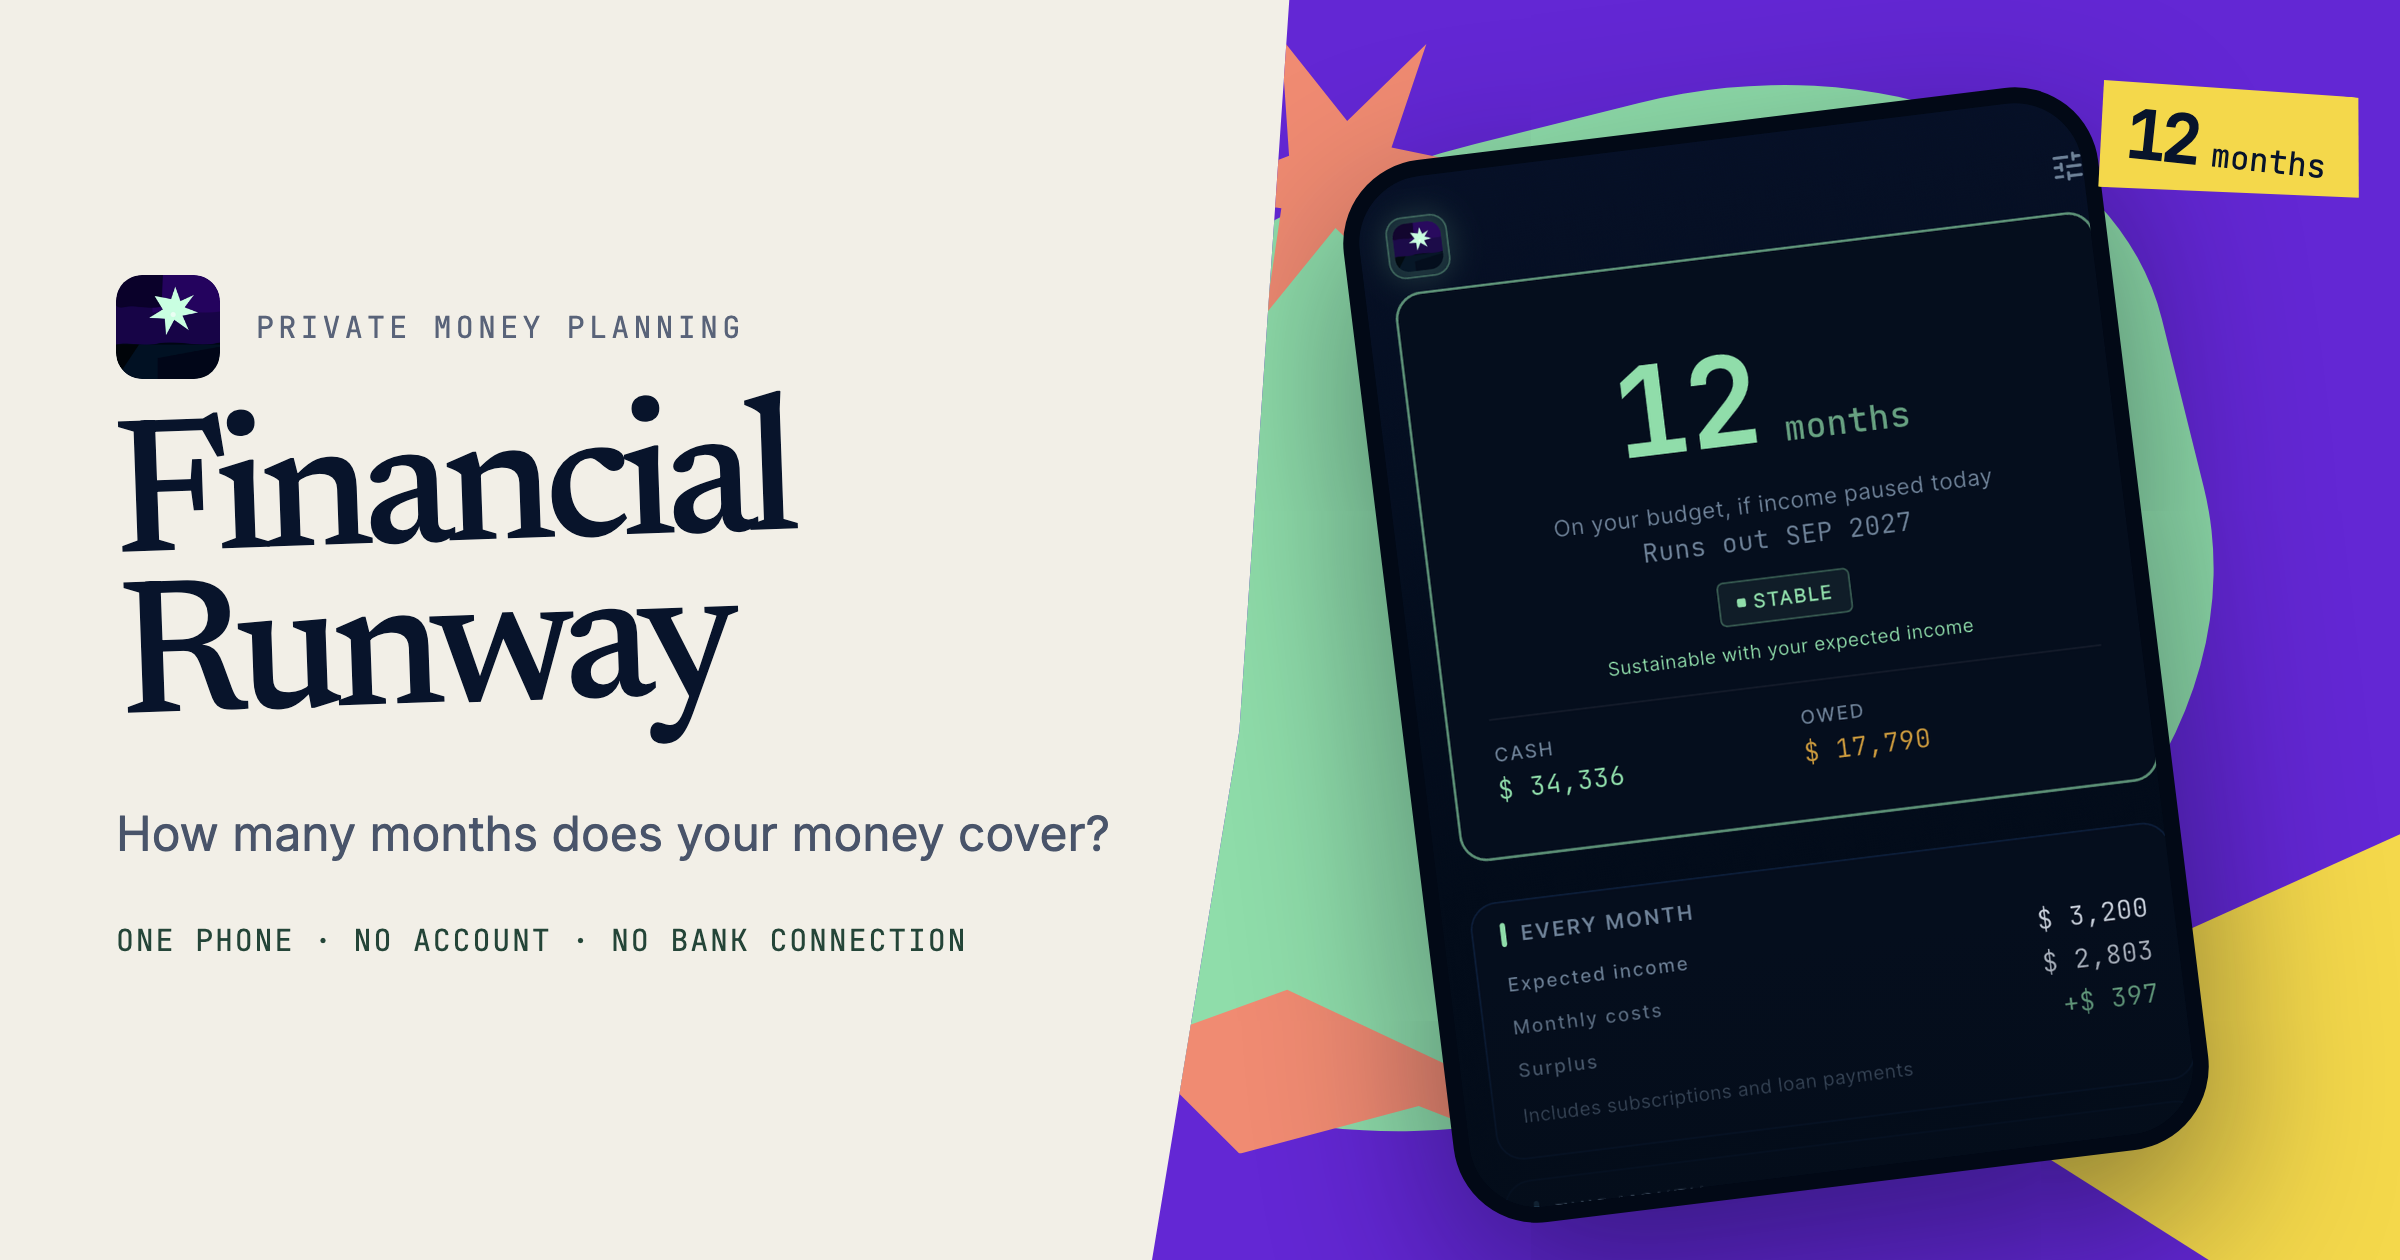
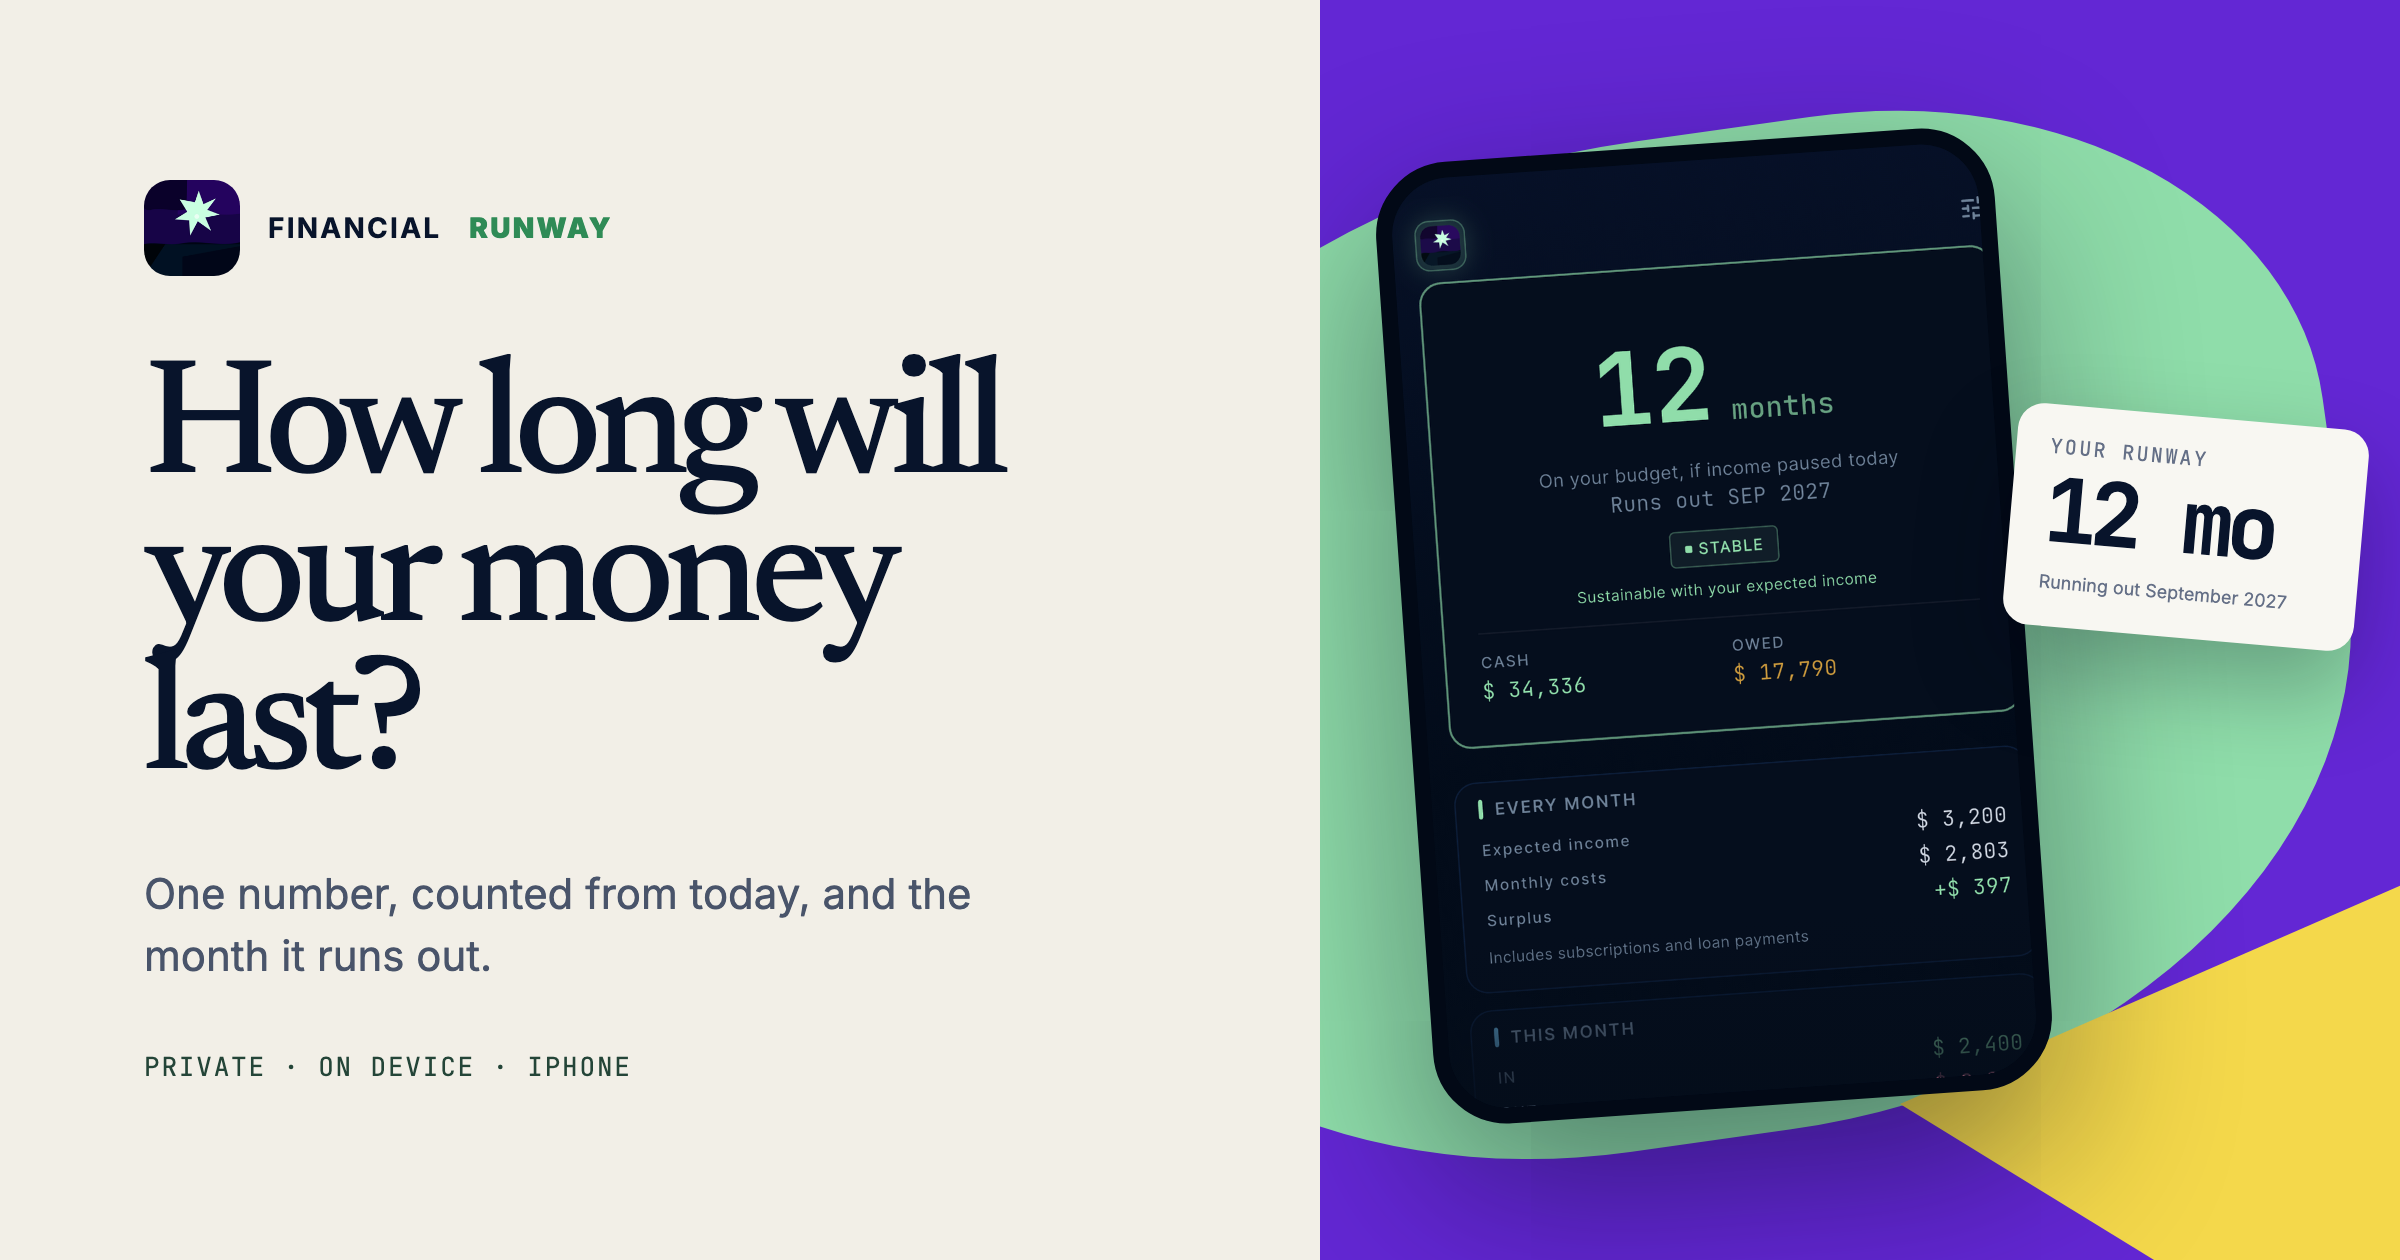
fix(site): take the newer card, and describe it accurately
The card gained a runway callout and its own wordmark. og-source/card.html
renders this one; re-running the documented command reproduces the committed
PNG byte for byte.

The README had lost the render command, which is the only thing that keeps the
image and the page from drifting apart. Restored.

og:image:alt described the old card, so a screen reader was told about an image
that no longer exists.

Claude-Session: https://claude.ai/code/session_01LzA2Gog4pmDHuvfaKeYrQX

diff --git a/site/assets/og-source/card.html b/site/assets/og-source/card.html
@@ -4,17 +4,17 @@
     <meta charset="utf-8" />
     <style>
       @font-face {
-        font-family: "Newsreader";
-        src: url("../fonts/newsreader-500.woff2") format("woff2");
+        font-family: Newsreader;
+        src: url("../fonts/newsreader-500.woff2");
         font-weight: 500;
       }
       @font-face {
-        font-family: "Inter";
-        src: url("../fonts/inter.woff2") format("woff2");
+        font-family: Inter;
+        src: url("../fonts/inter.woff2");
       }
       @font-face {
-        font-family: "JetBrains Mono";
-        src: url("../fonts/jetbrains-mono.woff2") format("woff2");
+        font-family: JetBrains;
+        src: url("../fonts/jetbrains-mono.woff2");
       }
       * {
         box-sizing: border-box;
@@ -27,201 +27,175 @@
       }
       body {
         overflow: hidden;
-        background: #f2efe7;
         color: #08142b;
-        font-family: "Inter", sans-serif;
+        background: #f2efe7;
+        font-family: Inter, sans-serif;
       }
       main {
         position: relative;
+        width: 100%;
         height: 100%;
-        display: grid;
-        grid-template-columns: 54% 46%;
-        align-items: center;
-        gap: 0;
       }
       .copy {
-        position: relative;
-        z-index: 3;
-        align-self: stretch;
+        position: absolute;
+        z-index: 5;
+        inset: 0 45% 0 0;
         display: flex;
         flex-direction: column;
         justify-content: center;
-        padding: 50px 58px;
-        background: transparent;
-      }
-      .field {
-        position: relative;
-        align-self: stretch;
-        overflow: hidden;
-        background: #6327d4;
-        clip-path: polygon(11% 0, 100% 0, 100% 100%, 0 100%, 7% 58%);
-        margin-left: -72px;
+        padding: 52px 72px;
       }
       .brand {
         display: flex;
         align-items: center;
-        gap: 18px;
-        margin-bottom: 24px;
-        color: #596379;
+        gap: 14px;
+        margin-bottom: 42px;
+        color: #08142b;
         font:
-          15px/1 "JetBrains Mono",
-          monospace;
-        letter-spacing: 0.14em;
+          700 14px/1 Inter,
+          sans-serif;
+        letter-spacing: 0.08em;
         text-transform: uppercase;
       }
+      .brand b {
+        color: #2f8b56;
+      }
       .brand img {
-        width: 52px;
-        height: 52px;
+        width: 48px;
+        height: 48px;
         border-radius: 13px;
       }
       h1 {
-        max-width: 590px;
+        max-width: 520px;
         margin: 0;
         font:
-          500 96px/0.84 "Newsreader",
+          500 82px/0.9 Newsreader,
           Georgia,
           serif;
-        letter-spacing: -0.055em;
-        transform: rotate(-2deg);
-        transform-origin: left center;
+        letter-spacing: -0.06em;
       }
       .question {
-        max-width: 560px;
-        margin: 25px 0 0;
+        max-width: 480px;
+        margin: 30px 0 0;
         color: #49546a;
-        font:
-          24px/1.45 "Inter",
-          sans-serif;
+        font-size: 21px;
+        line-height: 1.48;
       }
       .details {
-        margin-top: 28px;
+        margin: 33px 0 0;
         color: #244538;
         font:
-          15px/1 "JetBrains Mono",
+          13px/1 JetBrains,
           monospace;
-        letter-spacing: 0.06em;
+        letter-spacing: 0.07em;
         text-transform: uppercase;
+      }
+      .field {
+        position: absolute;
+        inset: 0 0 0 55%;
+        overflow: hidden;
+        background: #6327d4;
       }
       .blob {
         position: absolute;
-        width: 650px;
-        height: 480px;
-        left: -118px;
-        top: 68px;
+        left: -155px;
+        top: 70px;
+        width: 670px;
+        height: 500px;
         border-radius: 52% 35% 47% 41%;
         background: #8fddaa;
-        transform: rotate(-14deg);
+        transform: rotate(-8deg);
       }
       .shard {
         position: absolute;
-        right: -78px;
-        bottom: -62px;
+        right: -80px;
+        bottom: -78px;
         width: 330px;
-        height: 310px;
+        height: 300px;
         background: #f4d84b;
         clip-path: polygon(0 48%, 100% 0, 77% 100%);
-      }
-      .star {
-        position: absolute;
-        left: 18px;
-        top: 14px;
-        width: 145px;
-        height: 145px;
-        background: #f08b72;
-        clip-path: polygon(
-          50% 0,
-          61% 35%,
-          96% 20%,
-          72% 49%,
-          100% 67%,
-          63% 64%,
-          59% 100%,
-          44% 68%,
-          11% 87%,
-          29% 55%,
-          0 39%,
-          38% 39%
-        );
-        transform: rotate(-21deg);
-      }
-      .ribbon {
-        position: absolute;
-        z-index: 1;
-        left: -12px;
-        bottom: 40px;
-        width: 305px;
-        height: 88px;
-        background: #f08b72;
-        clip-path: polygon(0 48%, 24% 4%, 52% 34%, 79% 2%, 100% 42%, 76% 82%, 48% 59%, 20% 100%);
-        transform: rotate(8deg);
       }
       .metric {
         position: absolute;
         z-index: 4;
-        right: 18px;
-        top: 42px;
-        display: flex;
-        align-items: baseline;
-        gap: 8px;
-        padding: 13px 18px 11px;
+        right: 19px;
+        top: 208px;
+        width: 176px;
+        padding: 16px 17px 15px;
         color: #08142b;
-        background: #f4d84b;
-        clip-path: polygon(3% 8%, 96% 0, 100% 86%, 5% 100%);
+        background: #f8f7f2;
+        border-radius: 13px;
+        box-shadow: 0 20px 45px rgba(3, 7, 22, 0.28);
+        transform: rotate(5deg);
+      }
+      .metric span {
+        display: block;
+        color: #657087;
         font:
-          16px/1 "JetBrains Mono",
+          10px/1 JetBrains,
           monospace;
-        transform: rotate(6deg);
+        letter-spacing: 0.12em;
+        text-transform: uppercase;
       }
       .metric strong {
-        font-size: 34px;
+        display: block;
+        margin: 7px 0 4px;
+        font:
+          700 44px/0.9 JetBrains,
+          monospace;
         letter-spacing: -0.08em;
       }
+      .metric small {
+        color: #657087;
+        font-size: 9px;
+      }
       .phone {
-        position: relative;
-        z-index: 2;
-        width: 380px;
-        height: 535px;
-        margin: 60px auto 0;
+        position: absolute;
+        z-index: 3;
+        left: 42px;
+        top: 72px;
+        width: 310px;
+        height: 482px;
         overflow: hidden;
         border: 8px solid #020916;
-        border-radius: 42px;
+        border-radius: 37px;
         background: #040d1a;
         box-shadow: 0 34px 90px rgba(3, 7, 22, 0.45);
-        transform: rotate(-7deg);
+        transform: rotate(-4deg);
       }
       .phone img {
         position: absolute;
-        top: -48px;
+        top: -34px;
         left: 0;
-        width: 380px;
+        width: 310px;
       }
       .fade {
         position: absolute;
         inset: auto 0 0;
-        height: 116px;
-        background: linear-gradient(transparent, rgba(4, 13, 26, 0.88));
+        height: 86px;
+        background: linear-gradient(transparent, rgba(4, 13, 26, 0.82));
       }
     </style>
   </head>
   <body>
     <main>
       <section class="copy">
-        <div class="brand"><img src="../icon-180.png" alt="" /> Private money planning</div>
-        <h1>Financial<br />Runway</h1>
-        <p class="question">How many months does your money cover?</p>
-        <p class="details">One phone · no account · no bank connection</p>
+        <div class="brand"><img src="../icon-180.png" alt="" /> Financial <b>Runway</b></div>
+        <h1>How long will your money last?</h1>
+        <p class="question">One number, counted from today, and the month it runs out.</p>
+        <p class="details">Private · on device · iPhone</p>
       </section>
-      <div class="field">
+      <section class="field">
         <div class="blob"></div>
         <div class="shard"></div>
-        <div class="star"></div>
-        <div class="ribbon"></div>
-        <div class="metric"><strong>12</strong> months</div>
+        <div class="metric">
+          <span>Your runway</span><strong>12 mo</strong><small>Running out September 2027</small>
+        </div>
         <div class="phone">
           <img src="../device/01-runway.png" alt="" />
           <div class="fade"></div>
         </div>
-      </div>
+      </section>
     </main>
   </body>
 </html>

diff --git a/site/privacy/index.html b/site/privacy/index.html
@@ -20,7 +20,10 @@
     <meta property="og:image" content="https://echoshihtw.github.io/runway/assets/og.png" />
     <meta property="og:image:width" content="2400" />
     <meta property="og:image:height" content="1260" />
-    <meta property="og:image:alt" content="Financial Runway app showing twelve months of financial runway." />
+    <meta
+      property="og:image:alt"
+      content="Financial Runway on iPhone: the headline How long will your money last, beside the app showing twelve months of runway and the month it runs out."
+    />
     <meta name="twitter:card" content="summary_large_image" />
     <link rel="icon" type="image/png" sizes="180x180" href="../assets/icon-180.png" />
     <link rel="apple-touch-icon" href="../assets/icon-180.png" />

diff --git a/site/support/index.html b/site/support/index.html
@@ -17,7 +17,10 @@
     <meta property="og:image" content="https://echoshihtw.github.io/runway/assets/og.png" />
     <meta property="og:image:width" content="2400" />
     <meta property="og:image:height" content="1260" />
-    <meta property="og:image:alt" content="Financial Runway app showing twelve months of financial runway." />
+    <meta
+      property="og:image:alt"
+      content="Financial Runway on iPhone: the headline How long will your money last, beside the app showing twelve months of runway and the month it runs out."
+    />
     <meta name="twitter:card" content="summary_large_image" />
     <link rel="icon" type="image/png" sizes="180x180" href="../assets/icon-180.png" />
     <link rel="apple-touch-icon" href="../assets/icon-180.png" />

diff --git a/site/index.html b/site/index.html
@@ -20,7 +20,10 @@
     <meta property="og:image" content="https://echoshihtw.github.io/runway/assets/og.png" />
     <meta property="og:image:width" content="2400" />
     <meta property="og:image:height" content="1260" />
-    <meta property="og:image:alt" content="Financial Runway app showing twelve months of financial runway." />
+    <meta
+      property="og:image:alt"
+      content="Financial Runway on iPhone: the headline How long will your money last, beside the app showing twelve months of runway and the month it runs out."
+    />
     <meta name="twitter:card" content="summary_large_image" />
     <link rel="icon" type="image/png" sizes="180x180" href="assets/icon-180.png" />
     <link rel="apple-touch-icon" href="assets/icon-180.png" />

diff --git a/site/assets/og-source/README.md b/site/assets/og-source/README.md
@@ -1,7 +1,7 @@
 # Open Graph image
 
-`card.html` uses the same Newsreader, Inter, and JetBrains Mono font files as
-the marketing page. Render it from this directory with:
+`card.html` uses the marketing page's Newsreader, Inter, and JetBrains Mono
+fonts. Render it from this directory:
 
 ```sh
 "/Applications/Google Chrome.app/Contents/MacOS/Google Chrome" \
@@ -10,5 +10,6 @@ the marketing page. Render it from this directory with:
   --screenshot=../og.png card.html
 ```
 
-The resulting 2400 × 1260 PNG is the 1.91:1 Open Graph image referenced by
-the site metadata.
+2400 × 1260, which is 1.91:1 at 2x -- the ratio Open Graph and Twitter expect.
+Re-render when the hero copy or `device/01-runway.png` changes, so the preview
+and the page cannot drift apart.
